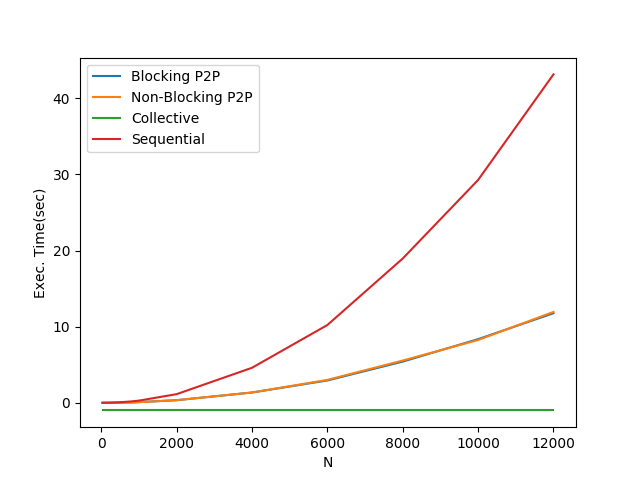
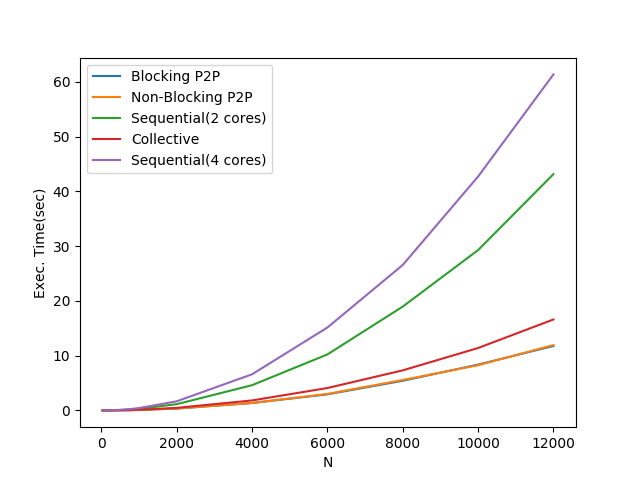
reading two more columns

diff --git a/assn2/code/graph.py b/assn2/code/graph.py
@@ -2,15 +2,16 @@ import matplotlib.pyplot as plt
 import pandas as pd
 # read csv from current working directory
 # format of csv:
-# size | blocking | non-blocking | collective | seq |
+# size | blocking | non-blocking | seq(2) | collective | seq(4) |
 # no header file
 def read_csv():
-    X = pd.read_csv("data.csv", ' ', header=None, usecols=[0, 1, 2, 3, 4]).to_numpy()
+    X = pd.read_csv("data.csv", ' ', header=None, usecols=[0, 1, 2, 3, 4, 5]).to_numpy()
     
     plt.plot(X[:, 0], X[:, 1], label = 'Blocking P2P')
     plt.plot(X[:, 0], X[:, 2], label = 'Non-Blocking P2P')
-    plt.plot(X[:, 0], X[:, 3], label = 'Collective')
-    plt.plot(X[:, 0], X[:, 4], label = 'Sequential')
+    plt.plot(X[:, 0], X[:, 3], label = 'Sequential(2 cores)')
+    plt.plot(X[:, 0], X[:, 4], label = 'Collective')
+    plt.plot(X[:, 0], X[:, 5], label = 'Sequential(4 cores)')
     plt.xlabel('N')
     plt.ylabel('Exec. Time(sec)')
     plt.legend()
